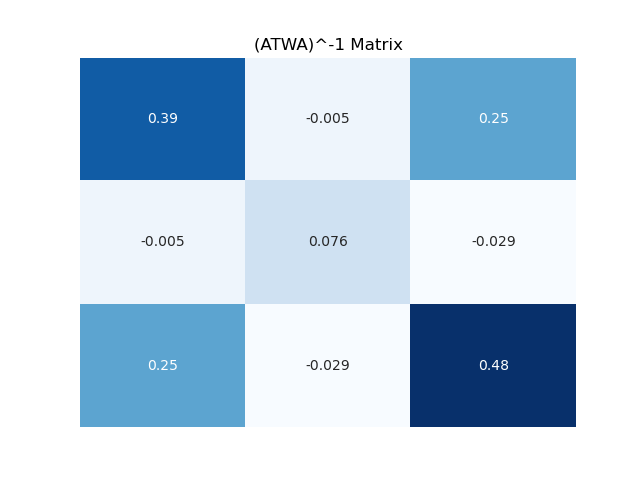
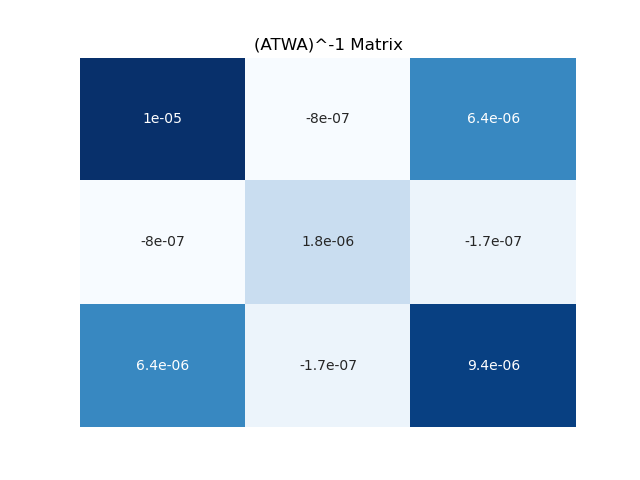
fix: DD Class alteration: Angle elevations and variances split up

diff --git a/Matrix_Computation_Classes.py b/Matrix_Computation_Classes.py
@@ -8,21 +8,21 @@ from typing import List
 
 class DD:
     
-"""
-ref_station - Earth centric Cartesian Coordinates of the reference station [X, Y, Z]
-corresponding_sat - Earth centric cartesian Coordinates of the corresponding station [X, Y, Z]
-sat_ref - Satellite reference of cartesian Coordinates of the reference station [X, Y, Z]
-wl - Wavelength 
-brrs - Base receiver to reference satellite 
-rrrs - Reference receiver to reference satellite
-brcs - Base receiver to corresponding satellite 
-rrcs - Reference receiver to corresponding satellite
-N - Ambiguity term (int)
-e - Noise term 
-c = speed of light in vacuum (299792458.0 ms-1) - Set to default    
-f = signal frequency (L1: 1575.42MHz, L2: 1227.6MHz)  either L1 or L2 can be True
-λ=𝑐/𝑓  - Wavelength calculated from c and f 
-"""
+    """"
+    ref_station - Earth centric Cartesian Coordinates of the reference station [X, Y, Z]
+    corresponding_sat - Earth centric cartesian Coordinates of the corresponding station [X, Y, Z]
+    sat_ref - Satellite reference of cartesian Coordinates of the reference station [X, Y, Z]
+    wl - Wavelength 
+    brrs - Base receiver to reference satellite 
+    rrrs - Reference receiver to reference satellite
+    brcs - Base receiver to corresponding satellite 
+    rrcs - Reference receiver to corresponding satellite
+    N - Ambiguity term (int)
+    e - Noise term 
+    c = speed of light in vacuum (299792458.0 ms-1) - Set to default    
+    f = signal frequency (L1: 1575.42MHz, L2: 1227.6MHz)  either L1 or L2 can be True
+    λ=𝑐/𝑓  - Wavelength calculated from c and f 
+    """""
 
     def __init__(self, ref_station: List[float] = None,
                        rov_station: List[float] = None,
@@ -156,36 +156,36 @@ class Variance:
         return angle
     
     def variance(self):
-        """
+        """""
         This method then calculates the variance of the satellite at the calculated angle.
         returns the variance as a float
-        """
+        """""
         # Variance (uncertainty associated with the satellite) (m)
-        variance = (self.l1_std ** 2) / (sin(angle))
+        variance = (self.l1_std ** 2) / (sin(self.elevation_variance_calculator()))
         
-        returtn variance
+        return variance
         
 
 def distance(point_1: List[float], point_2: List[float]) -> float:
-"""
-Find the difference between two points given sets of [X, Y, Z] coordinates.
-"""
+    """""
+    Find the difference between two points given sets of [X, Y, Z] coordinates.
+    """""
     return sqrt((point_2[0] - point_1[0])**2 +
                 (point_2[1] - point_1[1])**2 +
                 (point_2[2] - point_1[2])**2)
 
 
 class MatrixOperations:
-"""
-Matrix Operations
-
-D - Double differencing matrix 
-S - Single differencing matrix
-Cl - Covariance matrix of observations
-A - Design matric
-W - Weight matrix
-b - B (innovation vector?)
-"""   
+    """"
+    Matrix Operations
+    
+    D - Double differencing matrix 
+    S - Single differencing matrix
+    Cl - Covariance matrix of observations
+    A - Design matric
+    W - Weight matrix
+    b - B (innovation vector?)
+    """""
     def __init__(self, D=None, S=None, Cl=None, A=None, W=None, b=None):
         self.D = D
         self.S = S

diff --git a/Computations.py b/Computations.py
@@ -155,7 +155,7 @@ G12_rover_var = Variance(sat_coords=G12, receiver_coords=pillar_3A_rover, L1=Tru
 G10_base_var = Variance(sat_coords=G10, receiver_coords=pillar_1A_base, L1=True)
 G10_rover_var = Variance(sat_coords=G10, receiver_coords=pillar_3A_rover, L1=True)
 
-variance_vector = np.array([
+elevations = np.array([
 
                              [G19_base_var .elevation_variance_calculator()],
                              [G19_rover_var.elevation_variance_calculator()],
@@ -172,11 +172,31 @@ variance_vector = np.array([
                              [G10_base_var .elevation_variance_calculator()],
                              [G10_rover_var.elevation_variance_calculator()],
                              [G24_base_var .elevation_variance_calculator()],
-                             [G24_rover_var.elevation_variance_calculator()]     ])
+                             [G24_rover_var.elevation_variance_calculator()]])
 
+print(elevations)
 
+variance_vector = np.array([
+
+                             [G19_base_var .variance()],
+                             [G19_rover_var.variance()],
+                             [G18_base_var .variance()],
+                             [G18_rover_var.variance()],
+                             [G17_base_var .variance()],
+                             [G17_rover_var.variance()],
+                             [G15_base_var .variance()],
+                             [G15_rover_var.variance()],
+                             [G13_base_var .variance()],
+                             [G13_rover_var.variance()],
+                             [G12_base_var .variance()],
+                             [G12_rover_var.variance()],
+                             [G10_base_var .variance()],
+                             [G10_rover_var.variance()],
+                             [G24_base_var .variance()],
+                             [G24_rover_var.variance()]])
 
 print(variance_vector)
+
 
 
 # 16 x 8:  Differencing matrix
